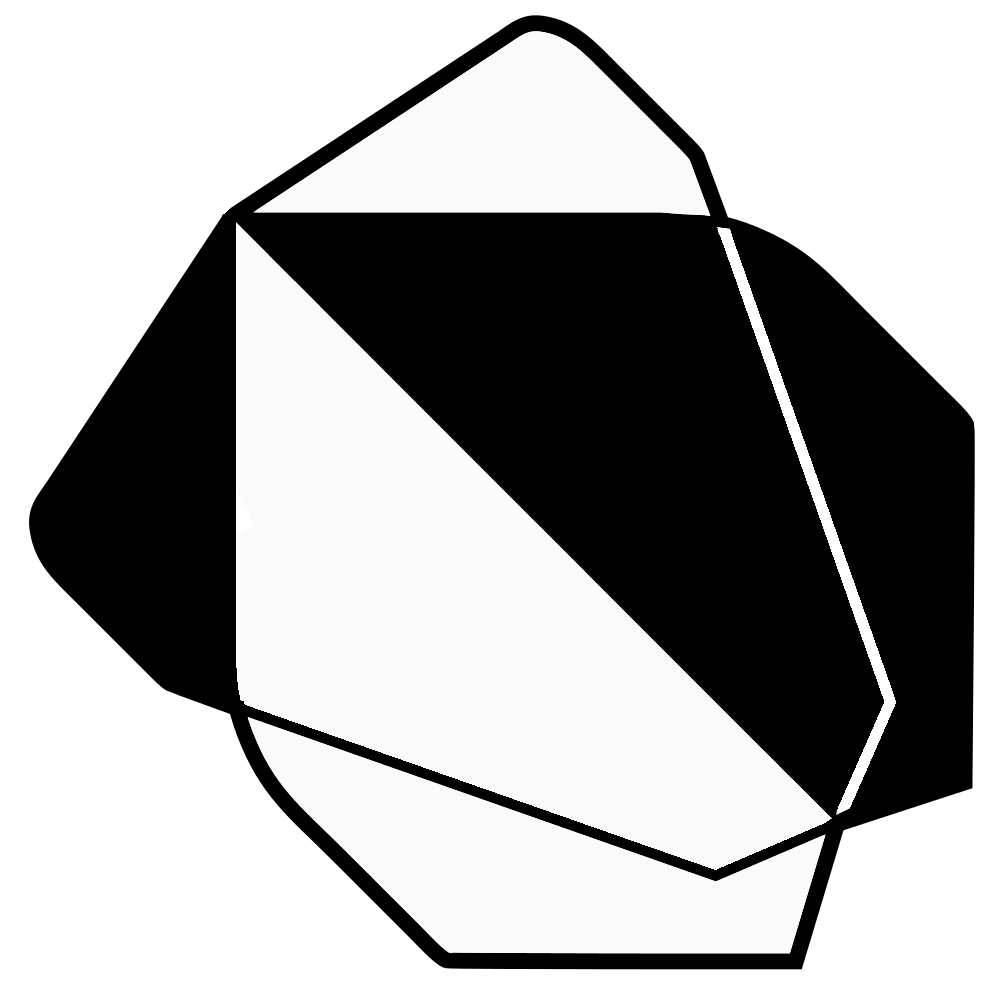
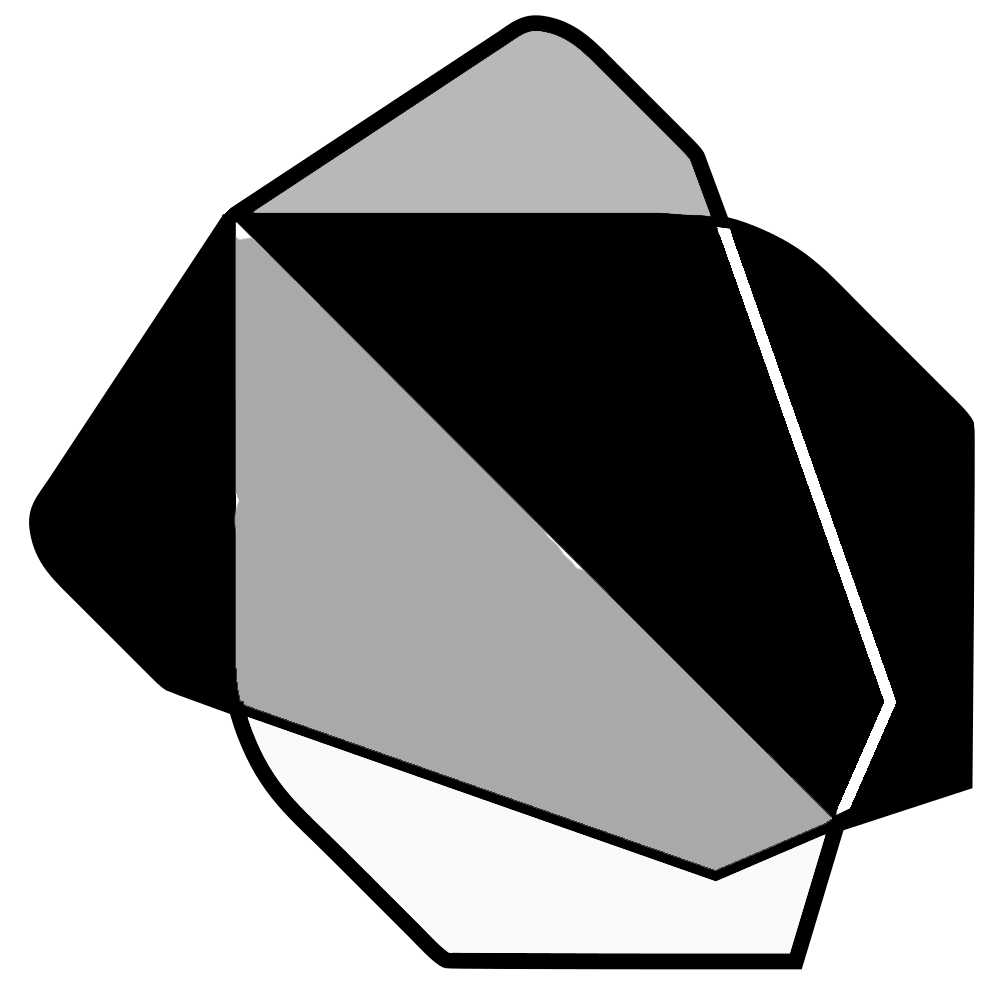
Ajustando dark theme

Changed region(s): [[0.217, 0.031, 0.837, 0.868]]

diff --git a/flutter_service_worker.js b/flutter_service_worker.js
@@ -4,8 +4,8 @@ const TEMP = 'flutter-temp-cache';
 const CACHE_NAME = 'flutter-app-cache';
 const RESOURCES = {
   "assets/AssetManifest.json": "5d63297b0e61612ac238f305ca2c3a7d",
-"assets/assets/images/dart.png": "b4a0a22f22d21387362e1c0f163c18e4",
-"assets/assets/images/firebase.png": "409a6a38d1641a0a834231b3a384099a",
+"assets/assets/images/dart.png": "4932ab9a15b693e37cda9a5684bb1345",
+"assets/assets/images/firebase.png": "f164f032243b3f165b4c16e1daf4d813",
 "assets/assets/images/flutter.png": "bf1180ab8ba195bad5e997fbf02dbf48",
 "assets/assets/images/git.png": "3bcc27377c047bf1867bf24c7eb08883",
 "assets/assets/images/github.png": "d228f78b481d0d63be5a8d5e01c1b8fa",
@@ -33,8 +33,8 @@ const RESOURCES = {
 "icons/Icon-512.png": "96e752610906ba2a93c65f8abe1645f1",
 "icons/Icon-maskable-192.png": "c457ef57daa1d16f64b27b786ec2ea3c",
 "icons/Icon-maskable-512.png": "301a7604d45b3e739efc881eb04896ea",
-"index.html": "ebee106718d582f379770f951df198fd",
-"/": "ebee106718d582f379770f951df198fd",
+"index.html": "21a3d8fd004a3c07f8d6922201b3195f",
+"/": "21a3d8fd004a3c07f8d6922201b3195f",
 "main.dart.js": "338b33aa846d8039ddbc9f23e48d222c",
 "manifest.json": "a755f7277e1697f92f71f2f48e8781e4",
 "version.json": "396c903be24e05680276e5d88d453065"

diff --git a/index.html b/index.html
@@ -34,7 +34,7 @@
 
   <script>
     // The value below is injected by flutter build, do not touch.
-    var serviceWorkerVersion = '1096823328';
+    var serviceWorkerVersion = '140269206';
   </script>
   <!-- This script adds the flutter initialization JS code -->
   <script src="flutter.js" defer></script>
